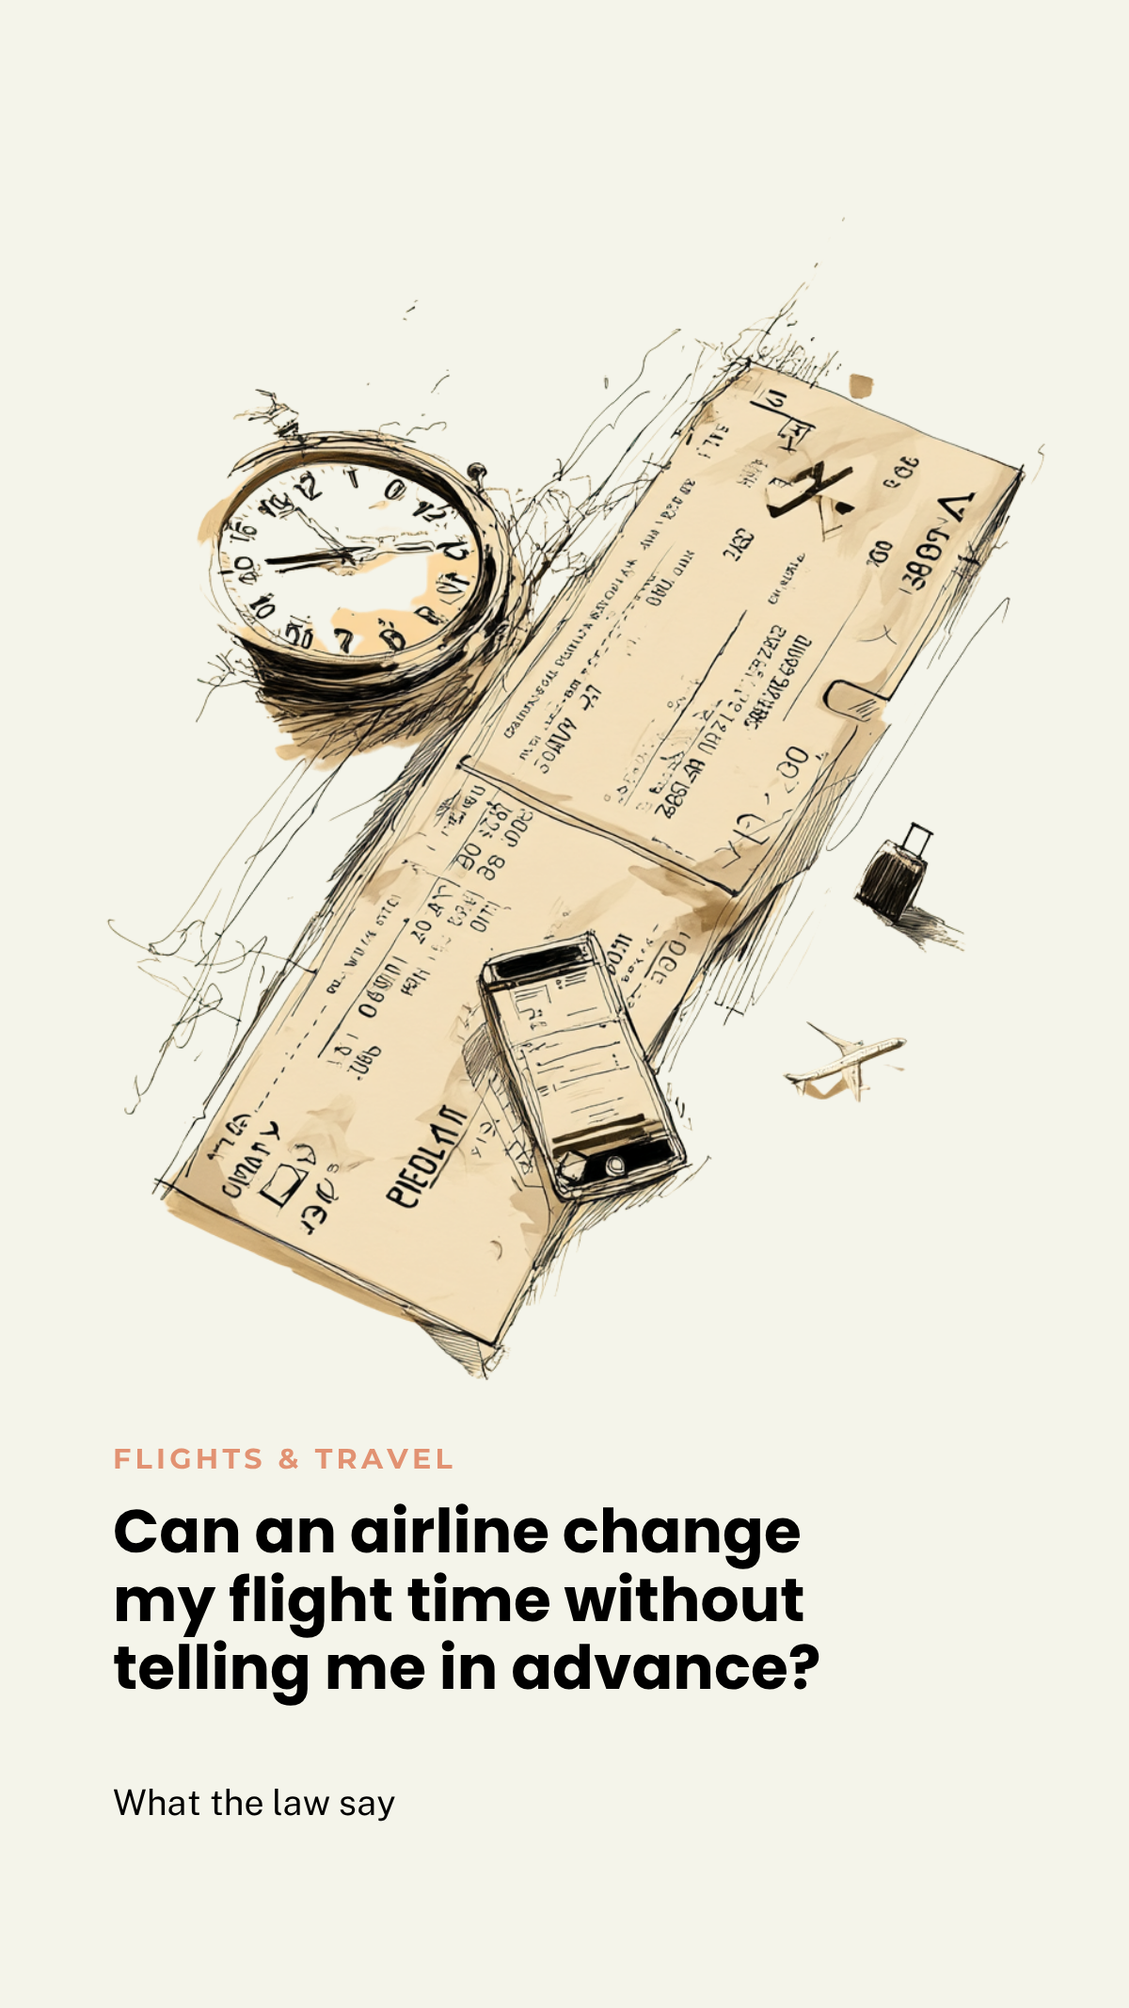
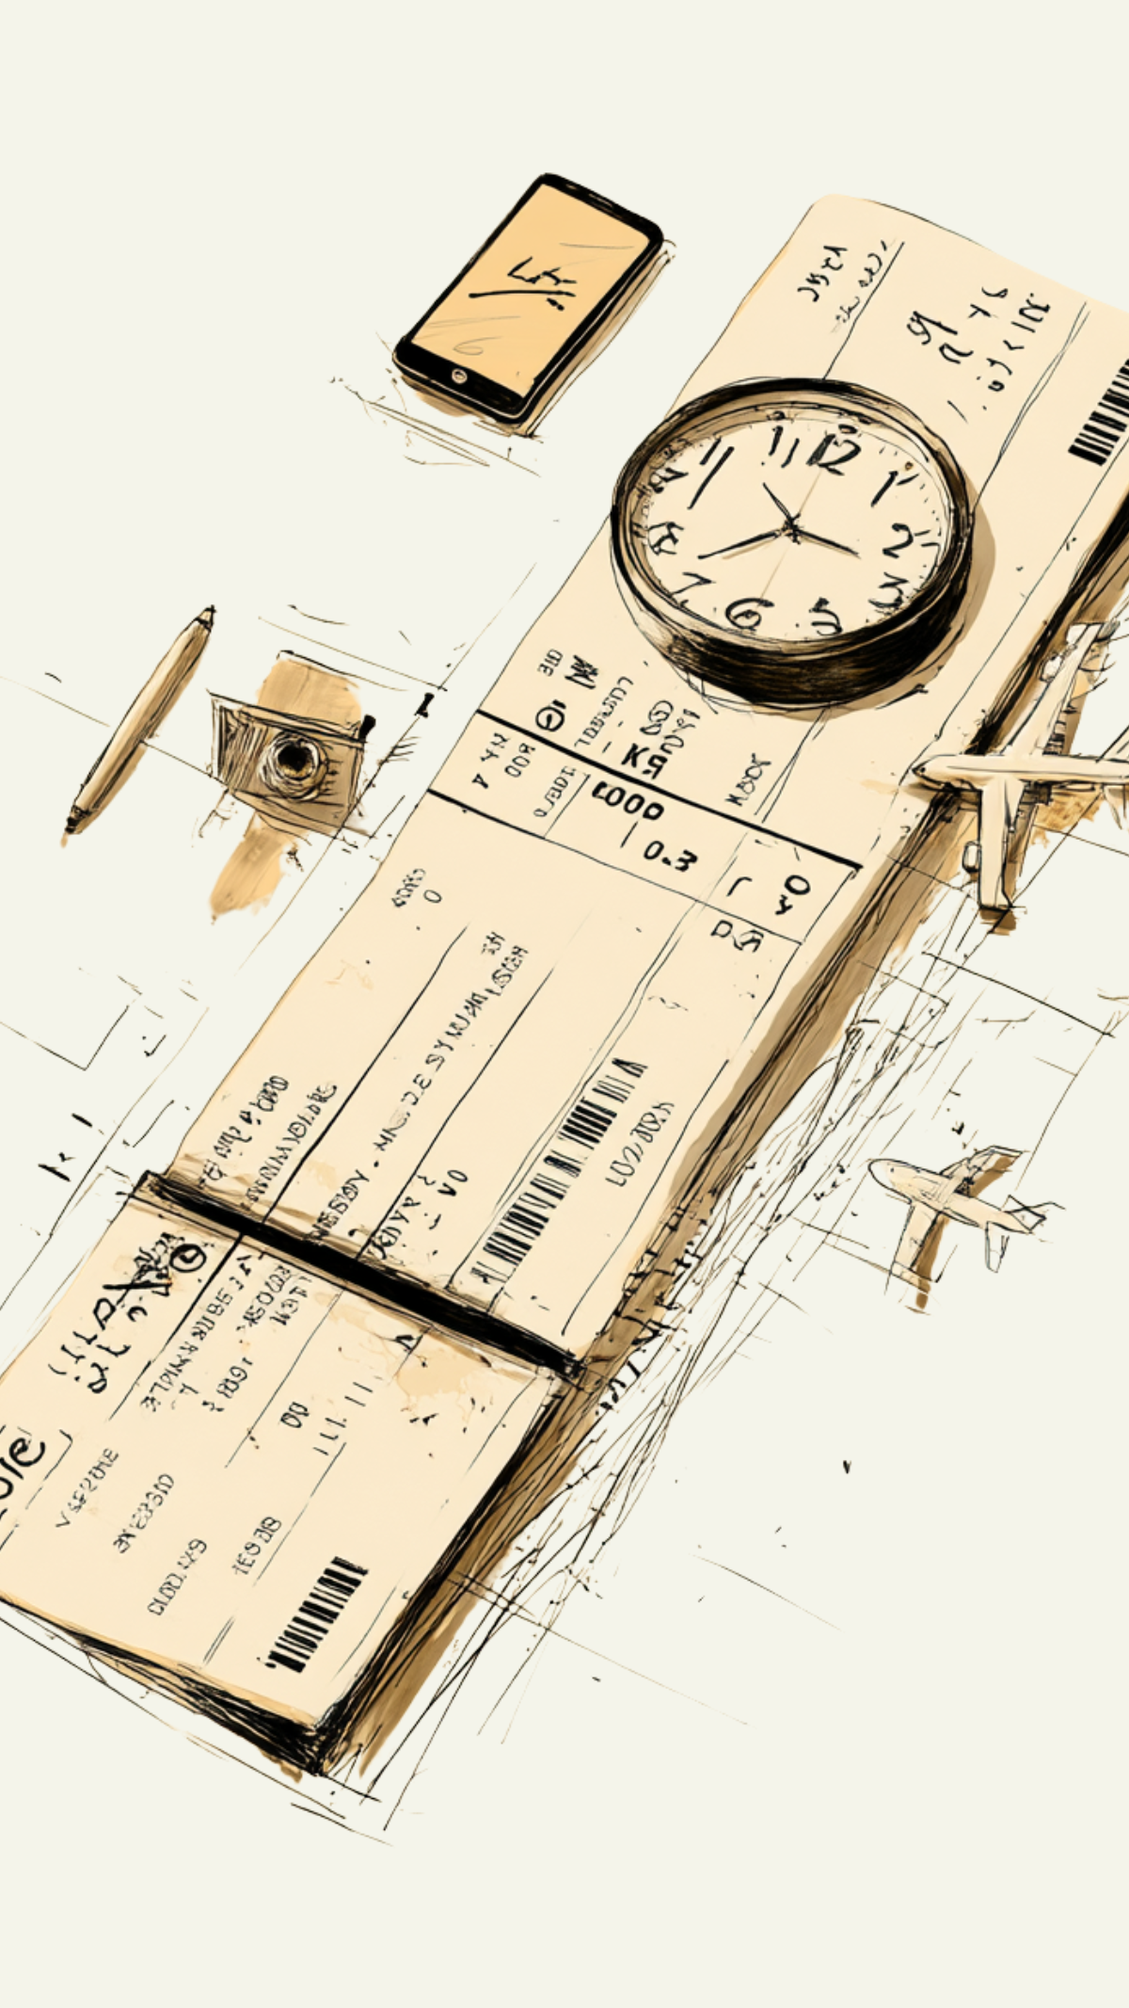
Flights & Travel questions: title-free card images, hero images, real card text
1. Replace the 5 small card images in images/questions/flights-travel/
   with new title-free versions (title text no longer baked into the
   image) — same filenames, same 1200x2133 dimensions.

2. Add a dedicated 1600x900 hero image to each of the 5 Flights &
   Travel question articles via a new .q-hero-image class (visible at
   all breakpoints — NOT the sitewide .hero-image class, which is
   display:none on mobile).

3. Fix /questions/ index cards: title and category label are now real
   HTML text (<h3 class="q-card-title">, <span class="q-card-category">)
   rendered below each image, not baked into it. Previously only the
   image was shown with no text at all. Introduces a new reusable
   .q-card/.q-card-category/.q-card-title pattern in styles.css
   (mirrors the existing .inv-card pattern from investigations.html)
   so future blocks built with the title-outside-image approach can
   reuse the same markup without repeating this fix. Applied to all
   10 instances of the 5 Flights & Travel cards (both the "all" and
   "flights-travel" tab panels); the other 40 cards are untouched.

diff --git a/questions.html b/questions.html
@@ -321,20 +321,40 @@
 
     <div class="qh-tool-panel active" data-toolpanel="all">
       <div class="q-card-grid">
-        <a class="q-img-card" href="/questions/flights-travel/can-an-airline-bump-me-after-checkin">
-          <img src="/images/questions/flights-travel/can-an-airline-bump-me-after-checkin.png" alt="Can an airline bump me from a flight even after I've checked in?" loading="lazy" width="1200" height="2133">
+        <a class="q-card" href="/questions/flights-travel/can-an-airline-bump-me-after-checkin">
+          <div class="q-img-card">
+            <img src="/images/questions/flights-travel/can-an-airline-bump-me-after-checkin.png" alt="Can an airline bump me from a flight even after I've checked in?" loading="lazy" width="1200" height="2133">
+          </div>
+          <span class="q-card-category">Flights &amp; Travel</span>
+          <h3 class="q-card-title">Can an airline bump me from a flight even after I've checked in?</h3>
         </a>
-        <a class="q-img-card" href="/questions/flights-travel/can-an-airline-charge-me-for-name-correction">
-          <img src="/images/questions/flights-travel/can-an-airline-charge-me-for-name-correction.png" alt="Can an airline charge me for correcting a misspelled name on my ticket?" loading="lazy" width="1200" height="2133">
+        <a class="q-card" href="/questions/flights-travel/can-an-airline-charge-me-for-name-correction">
+          <div class="q-img-card">
+            <img src="/images/questions/flights-travel/can-an-airline-charge-me-for-name-correction.png" alt="Can an airline charge me for correcting a misspelled name on my ticket?" loading="lazy" width="1200" height="2133">
+          </div>
+          <span class="q-card-category">Flights &amp; Travel</span>
+          <h3 class="q-card-title">Can an airline charge me for correcting a misspelled name on my ticket?</h3>
         </a>
-        <a class="q-img-card" href="/questions/flights-travel/can-i-get-my-money-back-flight-delayed-hours">
-          <img src="/images/questions/flights-travel/can-i-get-my-money-back-flight-delayed-hours.png" alt="Can I get my money back if my flight is delayed for hours?" loading="lazy" width="1200" height="2133">
+        <a class="q-card" href="/questions/flights-travel/can-i-get-my-money-back-flight-delayed-hours">
+          <div class="q-img-card">
+            <img src="/images/questions/flights-travel/can-i-get-my-money-back-flight-delayed-hours.png" alt="Can I get my money back if my flight is delayed for hours?" loading="lazy" width="1200" height="2133">
+          </div>
+          <span class="q-card-category">Flights &amp; Travel</span>
+          <h3 class="q-card-title">Can I get my money back if my flight is delayed for hours?</h3>
         </a>
-        <a class="q-img-card" href="/questions/flights-travel/can-an-airline-blame-weather-avoid-compensation">
-          <img src="/images/questions/flights-travel/can-an-airline-blame-weather-avoid-compensation.png" alt="Can an airline blame bad weather to avoid paying me compensation?" loading="lazy" width="1200" height="2133">
+        <a class="q-card" href="/questions/flights-travel/can-an-airline-blame-weather-avoid-compensation">
+          <div class="q-img-card">
+            <img src="/images/questions/flights-travel/can-an-airline-blame-weather-avoid-compensation.png" alt="Can an airline blame bad weather to avoid paying me compensation?" loading="lazy" width="1200" height="2133">
+          </div>
+          <span class="q-card-category">Flights &amp; Travel</span>
+          <h3 class="q-card-title">Can an airline blame bad weather to avoid paying me compensation?</h3>
         </a>
-        <a class="q-img-card" href="/questions/flights-travel/can-an-airline-change-flight-time-without-telling-me">
-          <img src="/images/questions/flights-travel/can-an-airline-change-flight-time-without-telling-me.png" alt="Can an airline change my flight time without telling me in advance?" loading="lazy" width="1200" height="2133">
+        <a class="q-card" href="/questions/flights-travel/can-an-airline-change-flight-time-without-telling-me">
+          <div class="q-img-card">
+            <img src="/images/questions/flights-travel/can-an-airline-change-flight-time-without-telling-me.png" alt="Can an airline change my flight time without telling me in advance?" loading="lazy" width="1200" height="2133">
+          </div>
+          <span class="q-card-category">Flights &amp; Travel</span>
+          <h3 class="q-card-title">Can an airline change my flight time without telling me in advance?</h3>
         </a>
         <a class="q-img-card" href="/questions/employment/can-my-boss-contact-me-outside-working-hours">
           <img src="/images/questions/employment/can-my-boss-contact-me-outside-working-hours.png" alt="Can my boss contact me outside working hours?" loading="lazy" width="1200" height="2133">
@@ -461,20 +481,40 @@
 
     <div class="qh-tool-panel" data-toolpanel="flights-travel">
       <div class="q-card-grid">
-        <a class="q-img-card" href="/questions/flights-travel/can-an-airline-bump-me-after-checkin">
-          <img src="/images/questions/flights-travel/can-an-airline-bump-me-after-checkin.png" alt="Can an airline bump me from a flight even after I've checked in?" loading="lazy" width="1200" height="2133">
+        <a class="q-card" href="/questions/flights-travel/can-an-airline-bump-me-after-checkin">
+          <div class="q-img-card">
+            <img src="/images/questions/flights-travel/can-an-airline-bump-me-after-checkin.png" alt="Can an airline bump me from a flight even after I've checked in?" loading="lazy" width="1200" height="2133">
+          </div>
+          <span class="q-card-category">Flights &amp; Travel</span>
+          <h3 class="q-card-title">Can an airline bump me from a flight even after I've checked in?</h3>
         </a>
-        <a class="q-img-card" href="/questions/flights-travel/can-an-airline-charge-me-for-name-correction">
-          <img src="/images/questions/flights-travel/can-an-airline-charge-me-for-name-correction.png" alt="Can an airline charge me for correcting a misspelled name on my ticket?" loading="lazy" width="1200" height="2133">
+        <a class="q-card" href="/questions/flights-travel/can-an-airline-charge-me-for-name-correction">
+          <div class="q-img-card">
+            <img src="/images/questions/flights-travel/can-an-airline-charge-me-for-name-correction.png" alt="Can an airline charge me for correcting a misspelled name on my ticket?" loading="lazy" width="1200" height="2133">
+          </div>
+          <span class="q-card-category">Flights &amp; Travel</span>
+          <h3 class="q-card-title">Can an airline charge me for correcting a misspelled name on my ticket?</h3>
         </a>
-        <a class="q-img-card" href="/questions/flights-travel/can-i-get-my-money-back-flight-delayed-hours">
-          <img src="/images/questions/flights-travel/can-i-get-my-money-back-flight-delayed-hours.png" alt="Can I get my money back if my flight is delayed for hours?" loading="lazy" width="1200" height="2133">
+        <a class="q-card" href="/questions/flights-travel/can-i-get-my-money-back-flight-delayed-hours">
+          <div class="q-img-card">
+            <img src="/images/questions/flights-travel/can-i-get-my-money-back-flight-delayed-hours.png" alt="Can I get my money back if my flight is delayed for hours?" loading="lazy" width="1200" height="2133">
+          </div>
+          <span class="q-card-category">Flights &amp; Travel</span>
+          <h3 class="q-card-title">Can I get my money back if my flight is delayed for hours?</h3>
         </a>
-        <a class="q-img-card" href="/questions/flights-travel/can-an-airline-blame-weather-avoid-compensation">
-          <img src="/images/questions/flights-travel/can-an-airline-blame-weather-avoid-compensation.png" alt="Can an airline blame bad weather to avoid paying me compensation?" loading="lazy" width="1200" height="2133">
+        <a class="q-card" href="/questions/flights-travel/can-an-airline-blame-weather-avoid-compensation">
+          <div class="q-img-card">
+            <img src="/images/questions/flights-travel/can-an-airline-blame-weather-avoid-compensation.png" alt="Can an airline blame bad weather to avoid paying me compensation?" loading="lazy" width="1200" height="2133">
+          </div>
+          <span class="q-card-category">Flights &amp; Travel</span>
+          <h3 class="q-card-title">Can an airline blame bad weather to avoid paying me compensation?</h3>
         </a>
-        <a class="q-img-card" href="/questions/flights-travel/can-an-airline-change-flight-time-without-telling-me">
-          <img src="/images/questions/flights-travel/can-an-airline-change-flight-time-without-telling-me.png" alt="Can an airline change my flight time without telling me in advance?" loading="lazy" width="1200" height="2133">
+        <a class="q-card" href="/questions/flights-travel/can-an-airline-change-flight-time-without-telling-me">
+          <div class="q-img-card">
+            <img src="/images/questions/flights-travel/can-an-airline-change-flight-time-without-telling-me.png" alt="Can an airline change my flight time without telling me in advance?" loading="lazy" width="1200" height="2133">
+          </div>
+          <span class="q-card-category">Flights &amp; Travel</span>
+          <h3 class="q-card-title">Can an airline change my flight time without telling me in advance?</h3>
         </a>
       </div>
     </div>

diff --git a/styles.css b/styles.css
@@ -1179,6 +1179,18 @@ color: var(--text-primary); cursor: pointer; transition: var(--transition); marg
 .q-img-card { display: block; aspect-ratio: 1200 / 2133; border-radius: var(--radius-lg); overflow: hidden; border: 1px solid var(--border); transition: var(--transition); }
 .q-img-card:hover { border-color: var(--accent-green); }
 .q-img-card img { display: block; width: 100%; height: 100%; object-fit: cover; }
+/* Question card — image + category label + title, whole card clickable.
+   Standard pattern for EVERY /questions/ block going forward (title/category
+   are real HTML text, never baked into the image itself): every card is
+   <a class="q-card"><div class="q-img-card">...</div><span class="q-card-category">...</span><h3 class="q-card-title">...</h3></a>
+   inside the existing .q-card-grid, no restructuring needed. Mirrors
+   .inv-card/.inv-card-category/.inv-card-title (investigations pages) —
+   label styling matches .q-category used on question detail pages. */
+.q-card { display: block; text-decoration: none; color: inherit; }
+.q-card-category { display: block; font-family: var(--font-sans); font-size: 13px; font-weight: 700; letter-spacing: 1.2px; text-transform: uppercase; color: var(--accent-terra); margin: 14px 0 6px; }
+.q-card-title { font-family: var(--font-serif); font-size: 17px; font-weight: 700; letter-spacing: -0.01em; line-height: 1.3; color: var(--text-primary); transition: var(--transition); }
+.q-card:hover .q-img-card { border-color: var(--accent-green); }
+.q-card:hover .q-card-title { color: var(--accent-green); }
 .inv-img-card { display: block; aspect-ratio: 1 / 1; border-radius: var(--radius-lg); overflow: hidden; border: 1px solid var(--border); transition: var(--transition); }
 .inv-img-card:hover { border-color: var(--accent-green); }
 .inv-img-card img { display: block; width: 100%; height: 100%; object-fit: cover; }

diff --git a/questions/flights-travel/can-an-airline-blame-weather-avoid-compensation.html b/questions/flights-travel/can-an-airline-blame-weather-avoid-compensation.html
@@ -102,6 +102,8 @@
   .wrap { max-width: 760px; margin: 0 auto; padding: 0 24px; }
   .q-header { padding: 56px 0 32px; }
   .q-category { display: inline-block; font-size: 13px; font-weight: 700; letter-spacing: 1.2px; text-transform: uppercase; color: var(--accent-terra); margin-bottom: 18px; }
+  /* Visible at ALL breakpoints, unlike the sitewide .hero-image class (display:none on mobile). */
+  .q-hero-image { display: block; width: 100%; max-width: 100%; height: auto; border-radius: 12px; margin: 0 0 24px; }
   .q-header h1 { font-family: var(--font-serif); font-size: 38px; font-weight: 800; line-height: 1.2; margin-bottom: 18px; }
   .q-dek { font-size: 18px; color: var(--text-secondary); max-width: 620px; }
   .q-meta { display: flex; gap: 18px; margin-top: 22px; font-size: 13px; color: var(--text-secondary); }
@@ -339,6 +341,7 @@
 
   <header class="q-header">
     <span class="q-category">Flights &amp; Travel · US &amp; UK</span>
+    <img class="q-hero-image" src="/images/questions/flights-travel/can-an-airline-blame-weather-avoid-compensation-hero.png" width="1600" height="900" alt="Can an airline blame bad weather to avoid paying me compensation?" loading="eager" fetchpriority="high">
     <h1>Can an airline blame bad weather to avoid paying me compensation?</h1>
     <p class="q-dek">Real weather is a genuine excuse. A vague reference to "operational reasons" is not — and there's a specific legal test that separates the two.</p>
     <div class="q-meta">

diff --git a/questions/flights-travel/can-an-airline-change-flight-time-without-telling-me.html b/questions/flights-travel/can-an-airline-change-flight-time-without-telling-me.html
@@ -102,6 +102,8 @@
   .wrap { max-width: 760px; margin: 0 auto; padding: 0 24px; }
   .q-header { padding: 56px 0 32px; }
   .q-category { display: inline-block; font-size: 13px; font-weight: 700; letter-spacing: 1.2px; text-transform: uppercase; color: var(--accent-terra); margin-bottom: 18px; }
+  /* Visible at ALL breakpoints, unlike the sitewide .hero-image class (display:none on mobile). */
+  .q-hero-image { display: block; width: 100%; max-width: 100%; height: auto; border-radius: 12px; margin: 0 0 24px; }
   .q-header h1 { font-family: var(--font-serif); font-size: 38px; font-weight: 800; line-height: 1.2; margin-bottom: 18px; }
   .q-dek { font-size: 18px; color: var(--text-secondary); max-width: 620px; }
   .q-meta { display: flex; gap: 18px; margin-top: 22px; font-size: 13px; color: var(--text-secondary); }
@@ -339,6 +341,7 @@
 
   <header class="q-header">
     <span class="q-category">Flights &amp; Travel · US &amp; UK</span>
+    <img class="q-hero-image" src="/images/questions/flights-travel/can-an-airline-change-flight-time-without-telling-me-hero.png" width="1600" height="900" alt="Can an airline change my flight time without telling me in advance?" loading="eager" fetchpriority="high">
     <h1>Can an airline change my flight time without telling me in advance?</h1>
     <p class="q-dek">They can move the schedule — but move it far enough, and you get to decide whether you're still going.</p>
     <div class="q-meta">

diff --git a/questions/flights-travel/can-an-airline-charge-me-for-name-correction.html b/questions/flights-travel/can-an-airline-charge-me-for-name-correction.html
@@ -107,6 +107,8 @@
   .wrap { max-width: 760px; margin: 0 auto; padding: 0 24px; }
   .q-header { padding: 56px 0 32px; }
   .q-category { display: inline-block; font-size: 13px; font-weight: 700; letter-spacing: 1.2px; text-transform: uppercase; color: var(--accent-terra); margin-bottom: 18px; }
+  /* Visible at ALL breakpoints, unlike the sitewide .hero-image class (display:none on mobile). */
+  .q-hero-image { display: block; width: 100%; max-width: 100%; height: auto; border-radius: 12px; margin: 0 0 24px; }
   .q-header h1 { font-family: var(--font-serif); font-size: 38px; font-weight: 800; line-height: 1.2; margin-bottom: 18px; }
   .q-dek { font-size: 18px; color: var(--text-secondary); max-width: 620px; }
   .q-meta { display: flex; gap: 18px; margin-top: 22px; font-size: 13px; color: var(--text-secondary); }
@@ -344,6 +346,7 @@
 
   <header class="q-header">
     <span class="q-category">Flights &amp; Travel · US &amp; UK</span>
+    <img class="q-hero-image" src="/images/questions/flights-travel/can-an-airline-charge-me-for-name-correction-hero.png" width="1600" height="900" alt="Can an airline charge me for correcting a misspelled name on my ticket?" loading="eager" fetchpriority="high">
     <h1>Can an airline charge me for correcting a misspelled name on my ticket?</h1>
     <p class="q-dek">One word decides whether it costs you nothing or gets rejected outright: "correction," not "change."</p>
     <div class="q-meta">

diff --git a/questions/flights-travel/can-i-get-my-money-back-flight-delayed-hours.html b/questions/flights-travel/can-i-get-my-money-back-flight-delayed-hours.html
@@ -102,6 +102,8 @@
   .wrap { max-width: 760px; margin: 0 auto; padding: 0 24px; }
   .q-header { padding: 56px 0 32px; }
   .q-category { display: inline-block; font-size: 13px; font-weight: 700; letter-spacing: 1.2px; text-transform: uppercase; color: var(--accent-terra); margin-bottom: 18px; }
+  /* Visible at ALL breakpoints, unlike the sitewide .hero-image class (display:none on mobile). */
+  .q-hero-image { display: block; width: 100%; max-width: 100%; height: auto; border-radius: 12px; margin: 0 0 24px; }
   .q-header h1 { font-family: var(--font-serif); font-size: 38px; font-weight: 800; line-height: 1.2; margin-bottom: 18px; }
   .q-dek { font-size: 18px; color: var(--text-secondary); max-width: 620px; }
   .q-meta { display: flex; gap: 18px; margin-top: 22px; font-size: 13px; color: var(--text-secondary); }
@@ -339,6 +341,7 @@
 
   <header class="q-header">
     <span class="q-category">Flights &amp; Travel · US &amp; UK</span>
+    <img class="q-hero-image" src="/images/questions/flights-travel/can-i-get-my-money-back-flight-delayed-hours-hero.png" width="1600" height="900" alt="Can I get my money back if my flight is delayed for hours?" loading="eager" fetchpriority="high">
     <h1>Can I get my money back if my flight is delayed for hours?</h1>
     <p class="q-dek">Two completely different systems: one pays you to walk away, the other pays you even if you still get on the plane.</p>
     <div class="q-meta">

diff --git a/questions/flights-travel/can-an-airline-bump-me-after-checkin.html b/questions/flights-travel/can-an-airline-bump-me-after-checkin.html
@@ -137,6 +137,17 @@
     color: var(--accent-terra);
     margin-bottom: 18px;
   }
+  /* Visible at ALL breakpoints, unlike the sitewide .hero-image class
+     (investigations/homepage), which is display:none on mobile — this
+     hero must stay visible for Discover's primary surface. */
+  .q-hero-image {
+    display: block;
+    width: 100%;
+    max-width: 100%;
+    height: auto;
+    border-radius: 12px;
+    margin: 0 0 24px;
+  }
   .q-header h1 {
     font-family: var(--font-serif);
     font-size: 38px;
@@ -479,6 +490,7 @@
   <!-- ============ HEADER ============ -->
   <header class="q-header">
     <span class="q-category">Flights &amp; Travel · US &amp; UK</span>
+    <img class="q-hero-image" src="/images/questions/flights-travel/can-an-airline-bump-me-after-checkin-hero.png" width="1600" height="900" alt="Can an airline bump me from a flight even after I've checked in?" loading="eager" fetchpriority="high">
     <h1>Can an airline bump me from a flight even after I've checked in?</h1>
     <p class="q-dek">Checking in doesn't protect you from an oversold flight — but if you're bumped involuntarily, the airline owes you real cash, not just an apology and a later flight.</p>
     <div class="q-meta">
